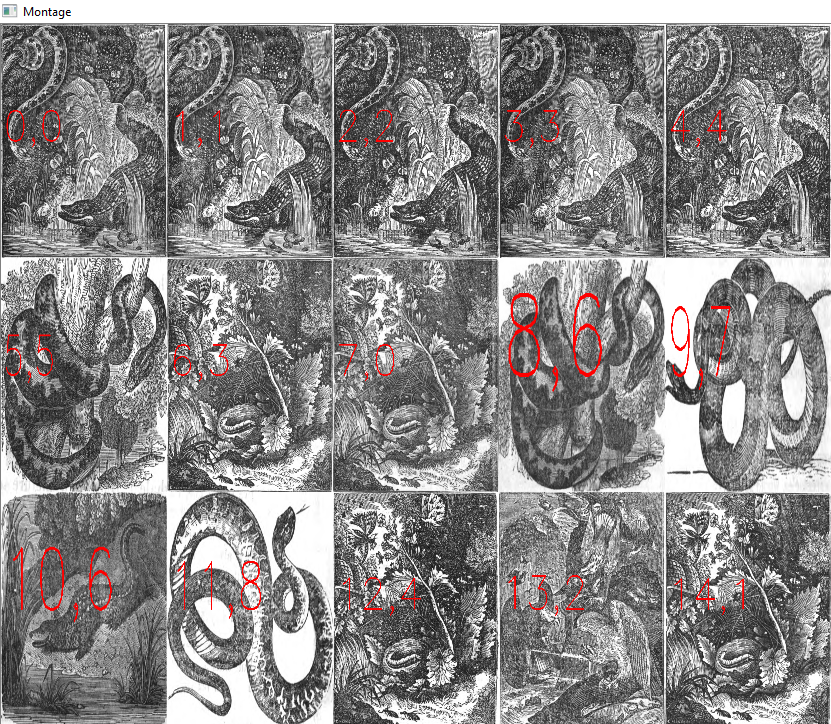
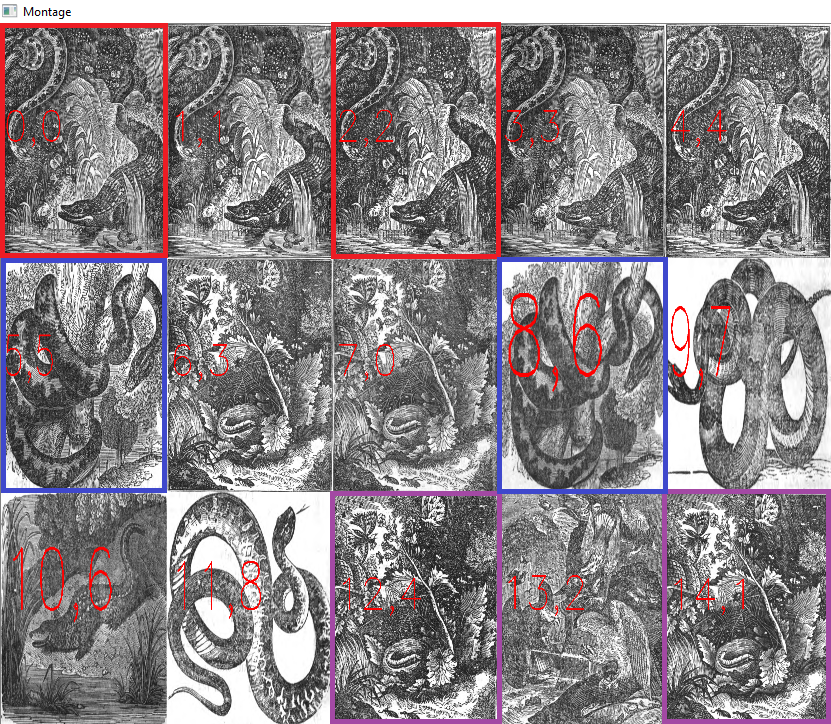
ok, enough for now, maybe send to caleb?

Changed region(s): [[0.3911, 0.0304, 1.0, 1.0], [0.0, 0.0304, 0.2106, 0.6989]]

diff --git a/_posts/2017-07-20-discovering-duplicate-books.md b/_posts/2017-07-20-discovering-duplicate-books.md
@@ -27,3 +27,29 @@ Let me highlight the three "matching pairs" that most intrigued me by framing th
 
 ![](/assets/img/show-neighbors-highlight.png)
 
+In this genre, the full title is too noisy a source of information to use in discovery phase. Let's consider the three pairs by place and date of publication (the neighbor and volume IDs are given for reference and are annotated in red on the thumbnails themselves). This gives us:
+
+Color | Neighbor | Volume | Place | Date
+--- | --- | --- | --- | --- | ---
+Red | 0 | 0 | Boston | 1834
+Red | 2 | 2 | New York | 1854
+Blue | 5 | 5 | Philadelphia | 1847 
+Blue | 8 | 6 | Philadelphia | 1832
+Purple | 12 | 4 | New York | 1854
+Purple | 14 | 1 | Philadelphia | 1834
+
+Keeping in mind that same color means a match between wood engraving, we can further distinguish within the "reused after a long interval" category. In the case of red and purple, New York publishers re-release illustrations first used in Boston and Philadelphia twenty years previously! (likely as part of the same printing/distribution push in 1834). In the case of the blue pair, we have a wood engraving showing up in a book by a different printer in the same city, fifteen years later. 
+
+Now, we have some excellent leads to follow up on. In particular, it seems as if Peter Parley's *The every day book* was repackaged wholesale into an 1850s gift book/annual: *A gift for my young friends*. In the next installment of this post, I'll talk about what I found when I dug deeper into Goodrich's memoirs and the secondary literature on gift books.
+
+I'll also show how I was able to use another tool, `illustration-collation` (developed through a grant from the Yale DH Lab), to load up the image sets from the 1830s and 1850s books and prove that the set of engravings had been completely reused.
+
+In closing, I want to offer a brief motivation for why this approach has advantages that are not offered by textual research.
+
+* Looking at pictures is fun, sensuous, and utilizes our innate human collation skills
+* By comparing images and image sets instead of word sequences, we get closer to the mindset of 19C publishers, who often began from the acquisition of a set of engravings and *then* worked to put text in place around them
+* Image circulation and reuse is highly predictive of textual reuse, but it *materializes* our idea of what it means to "plagiarize" (and it defamiliarizes the terms of that tired paradigm)
+
+For your perusal, here are the full page images from which the first 15 neighbors were found for the reptiles image:
+
+![](/assets/img/show-neighbors-full-page.png)

diff --git a/_articles/dissertation/babes-and-mr-wood.md b/_articles/dissertation/babes-and-mr-wood.md
@@ -1,5 +1,5 @@
 ---
-title: Babes and Mr. Wood: Print and Prison Technology in New York
+title: "Babes and Mr. Wood: Print and Prison Technology in New York"
 author: Stephen Krewson
 link-citations: true
 keywords: ["Samuel S. Wood", "African Free Schools", "Society of Friends", "Juvenile detention"]
